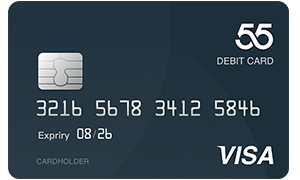
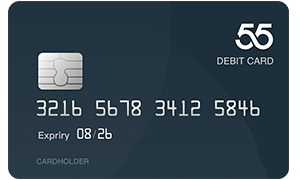
register

Changed region(s): [[0.72, 0.8056, 0.93, 0.9444]]

diff --git a/src/views/home/us/USHOME.vue b/src/views/home/us/USHOME.vue
@@ -765,15 +765,15 @@
                           
                           <h2 class="text-primary">55 <span class="font-weight-bold">VISA Debit Card</span></h2>
                           
-                          <p>Seamlessly integrated with 55 GBBO, your cryptocurrencies can be converted to fiat currency almost in real time. 55, in collaboration with VISA and major payment service providers worldwide, allows you to pay at millions of storefronts or POS terminals.</p >
+                          <p>Seamlessly integrated with 55 GBBO, your cryptocurrencies can be converted to fiat currency almost in real time. 55, in collaboration with major payment service providers, will allow you to pay at millions of storefronts or POS terminals.</p >
                         </div>
                         <!-- End Title -->
                         
                         <button type="button" @click="$router.push('/card')" class="btn btn-xs btn-dark u-btn-dark u-btn-wide transition-3d-hover text-left mb-2">
                             <span class="media align-items-center">
-                              <span class="d-flex mr-3">
+                              <!-- <span class="d-flex mr-3">
                                 <span class="fab fa-cc-visa font-size-26"></span>
-                              </span>
+                              </span> -->
                               <span class="media-body">
                                 <span class="d-block">Pre-order Now</span>
                                 <strong class="font-size-14">55 Visa Debit Card</strong>

diff --git a/src/views/login/register.vue b/src/views/login/register.vue
@@ -152,15 +152,14 @@
                                 </FormItem>
                                 <FormItem prop="interest">
                                     <CheckboxGroup v-model="formValidate.interest">
-                                        <Checkbox label='ddd'><span style="color:#51809F;" class="agree_tip">{{$t('regAgree')}}</span>
+                                        <Checkbox label='ddd'><span style="color:#51809F;" class="agree_tip">{{$t('regAgree')}} </span>
                                         <router-link class="termsurl" to="/terms">{{$t('regTermsOfUse')}}</router-link>
-                                        <!-- <a class="agreeAble" target="_blank" :href="agreeAbleUrl">{{$t('regTermsOfUse')}}</a> -->
+                                            <span style="color:#51809F;padding:0 10px;">and</span>
+                                        <router-link class="termsurl" to="/privacy">Privacy Policy</router-link>
                                         </Checkbox>
                                     </CheckboxGroup>
                                 </FormItem>
                           </div>
-
-
                             <Button v-if="loaded"  :disabled='registerbtn' id="registerBtn"  @click="handleSubmit('formValidate')" type="primary">{{$t('regSignup')}}</Button>
                             <Button v-else disabled loading class="loginbtn"  @click="handleSubmit('formValidate')" type="primary"></Button>
                              

diff --git a/src/locale/lang/zh-CN.js b/src/locale/lang/zh-CN.js
@@ -277,7 +277,7 @@ export default {
    passwordNotMach: '两次输入的密码不一致,请重新输入',
    passwordReg: '密码必须是8-20位数字和字母组合',
    regAgree: '我同意55的',
-   regTermsOfUse: '使用条款',
+   regTermsOfUse: '用户协议',
    dlWelcome: '欢迎登录55',
    dlLogin: '登录',
    dlForgot: '忘记密码 ?',
@@ -289,6 +289,7 @@ export default {
    regSignup: '注册',
    regAlreadyReg: '已经注册过?',
    regLogin: '登录',
+   隐私条款:'隐私条款',
    usNotice: "55 Global Markets, including all products and services offered hereby, is currently not available to any citizens or residents of the United States and its affiliated territories. We are not offering, soliciting, promoting, or otherwise holding out as being able to provide any service or product to any citizens or residents of the United States. Please see our Terms of Use for more information.",
    //5站title翻译
    HomePageTitle: '55 - 让世界自由流动!',

diff --git a/src/locale/lang/id-id.js b/src/locale/lang/id-id.js
@@ -290,6 +290,8 @@ export default {
     regSignup: 'Daftar',
     regAlreadyReg: 'Sudah Mendaftar?',
     regLogin: 'Masuk',
+   隐私条款:'Privacy Policy',
+
     usNotice: "55, termasuk semua produk dan layanan yang ditawarkan dengan ini, saat ini tidak tersedia untuk warga negara atau penduduk Amerika Serikat dan wilayah afiliasinya. Kami tidak menawarkan, meminta, mempromosikan, atau jika tidak bertahan untuk dapat memberikan layanan atau produk kepada setiap warga negara atau penduduk Amerika Serikat. Silahkan lihat ketentuan penggunaan kami untuk informasi lebih lanjut.",
     //5站title翻译
     HomePageTitle: '55 - One World, One Exchange ',

diff --git a/src/locale/lang/ko.js b/src/locale/lang/ko.js
@@ -341,6 +341,7 @@ export default {
    regSignup: "등록",
    regAlreadyReg: "이미 등록하셨습니까?",
    regLogin: "로그인",
+   隐私条款:'Privacy Policy',
    usNotice: "55, including all products and services offered hereby, is currently not available to any citizens or residents of the United States and its affiliated territories. We are not offering, soliciting, promoting, or otherwise holding out as being able to provide any service or product to any citizens or residents of the United States. Please see our Terms of Use for more information.",
 
    //5站title翻译

diff --git a/src/views/google/setGoogle.less b/src/views/google/setGoogle.less
@@ -128,7 +128,6 @@
                                 width: 200px;
                                 height: 120px;
                                 text-align: left;
-                                padding-left: 20px;
                                 line-height: 120px;
                                 margin: 30px 40px 30px 60px;
                                 background: url(../../assets/images/google/key.png) no-repeat;

diff --git a/src/locale/lang/vi.js b/src/locale/lang/vi.js
@@ -344,6 +344,8 @@ export default {
    regSignup: "Đăng ký",
    regAlreadyReg: "Đã đăng ký",
    regLogin: "Đăng nhập",
+   隐私条款:'Privacy Policy',
+
    //5站title翻译
    HomePageTitle: "Sàn giao dịch 55 I Sàn giao dịch thế giới với sự trung thực",
    // LoginPageTitle:"Log In - 55 Exchange",

diff --git a/src/locale/lang/th-th.js b/src/locale/lang/th-th.js
@@ -322,6 +322,8 @@ export default {
    regSignup: 'สมัครใช้งาน',
    regAlreadyReg: 'Already Registered?',
    regLogin: 'เข้าสู่ระบบ',
+   隐私条款:'Privacy Policy',
+
    //5站title翻译
    HomePageTitle: '55 - One World, One Exchange ',
    ExchangeTitle: 'Log In - 55',

diff --git a/src/locale/lang/ru-ru.js b/src/locale/lang/ru-ru.js
@@ -322,6 +322,8 @@ export default {
    regSignup: 'Регистрация',
    regAlreadyReg: 'Already Registered?',
    regLogin: 'ВОЙТИ',
+   隐私条款:'Privacy Policy',
+
    //5站title翻译
    HomePageTitle: '55 - One World, One Exchange ',
    ExchangeTitle: 'Log In - 55',

diff --git a/src/locale/lang/es-es.js b/src/locale/lang/es-es.js
@@ -323,6 +323,8 @@ export default {
    regSignup: 'Registrarme',
    regAlreadyReg: 'Already Registered?',
    regLogin: 'Iniciar sesión',
+   隐私条款:'Privacy Policy',
+
    //5站title翻译
    HomePageTitle: '55 - One World, One Exchange ',
    ExchangeTitle: 'Log In - 55',

diff --git a/src/locale/lang/fr-fr.js b/src/locale/lang/fr-fr.js
@@ -322,6 +322,8 @@ export default {
    regSignup: "S'enregistrer",
    regAlreadyReg: 'Already Registered?',
    regLogin: 'Connexion',
+   隐私条款:'Privacy Policy',
+
    //5站title翻译
    HomePageTitle: '55 - One World, One Exchange ',
    ExchangeTitle: 'Log In - 55',

diff --git a/src/locale/lang/de-de.js b/src/locale/lang/de-de.js
@@ -322,6 +322,7 @@ export default {
    regSignup: 'Registrieren',
    regAlreadyReg: 'Already Registered?',
    regLogin: 'Anmelden',
+   隐私条款:'Privacy Policy',
    //5站title翻译
    HomePageTitle: '55 - One World, One Exchange ',
    ExchangeTitle: 'Log In - 55',
